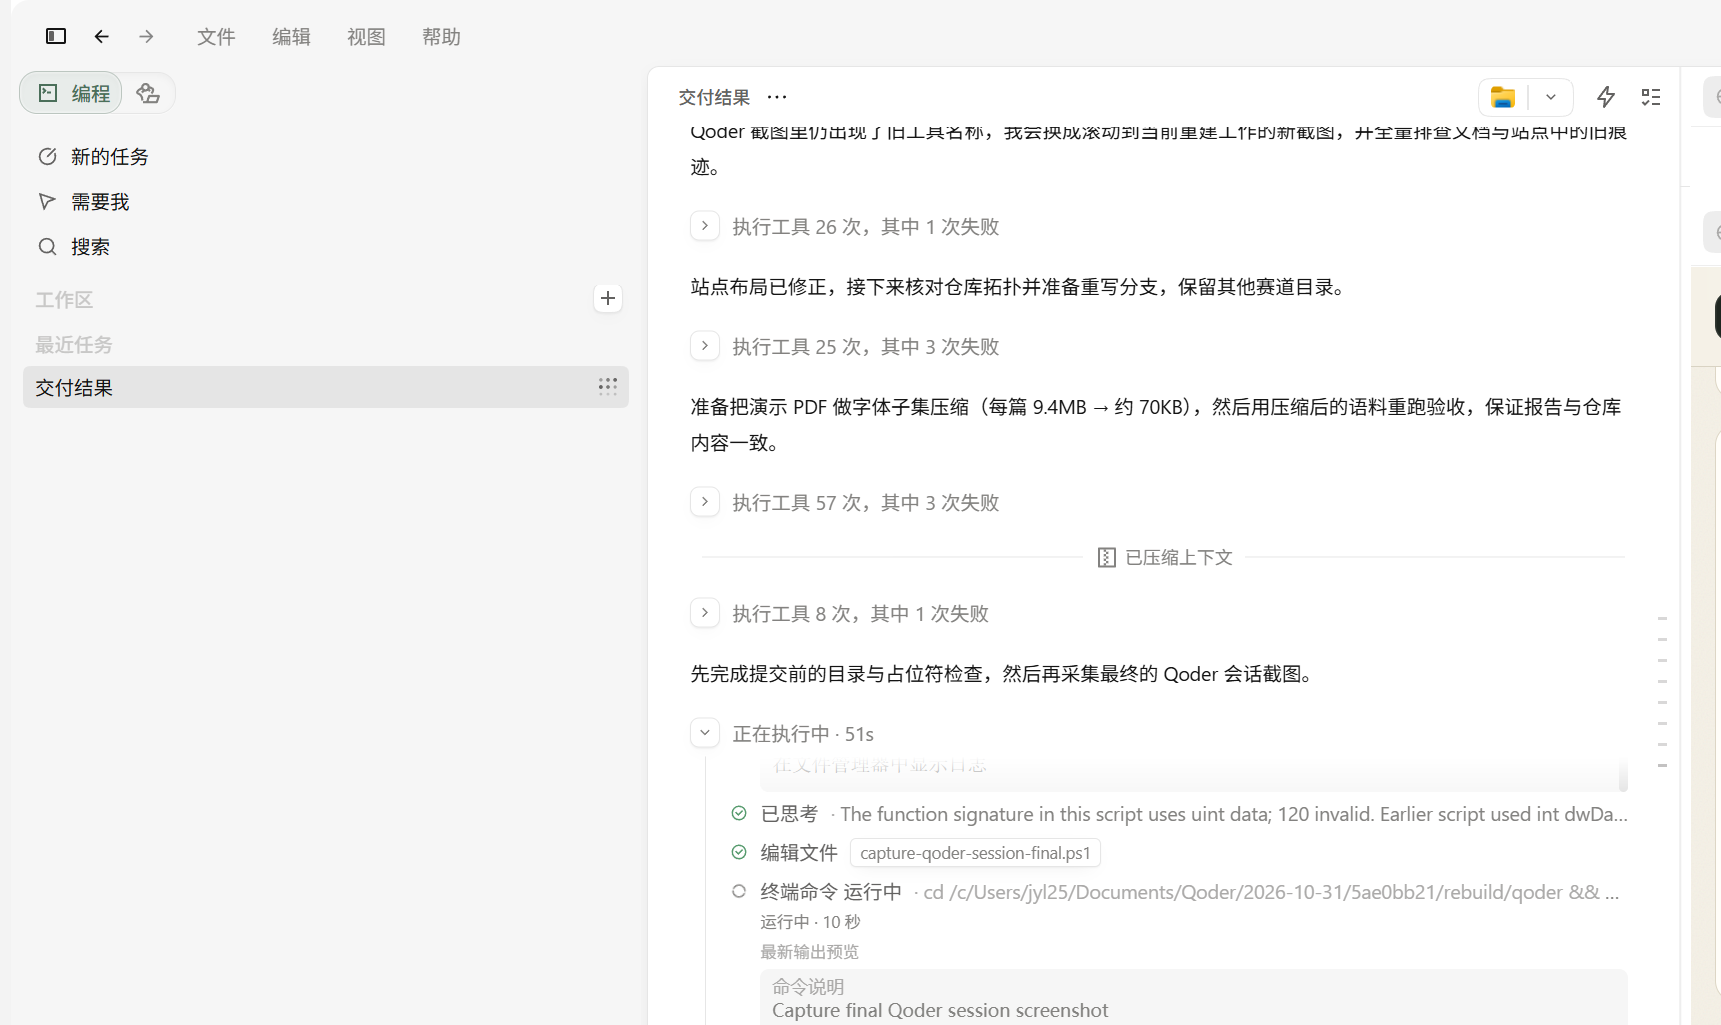
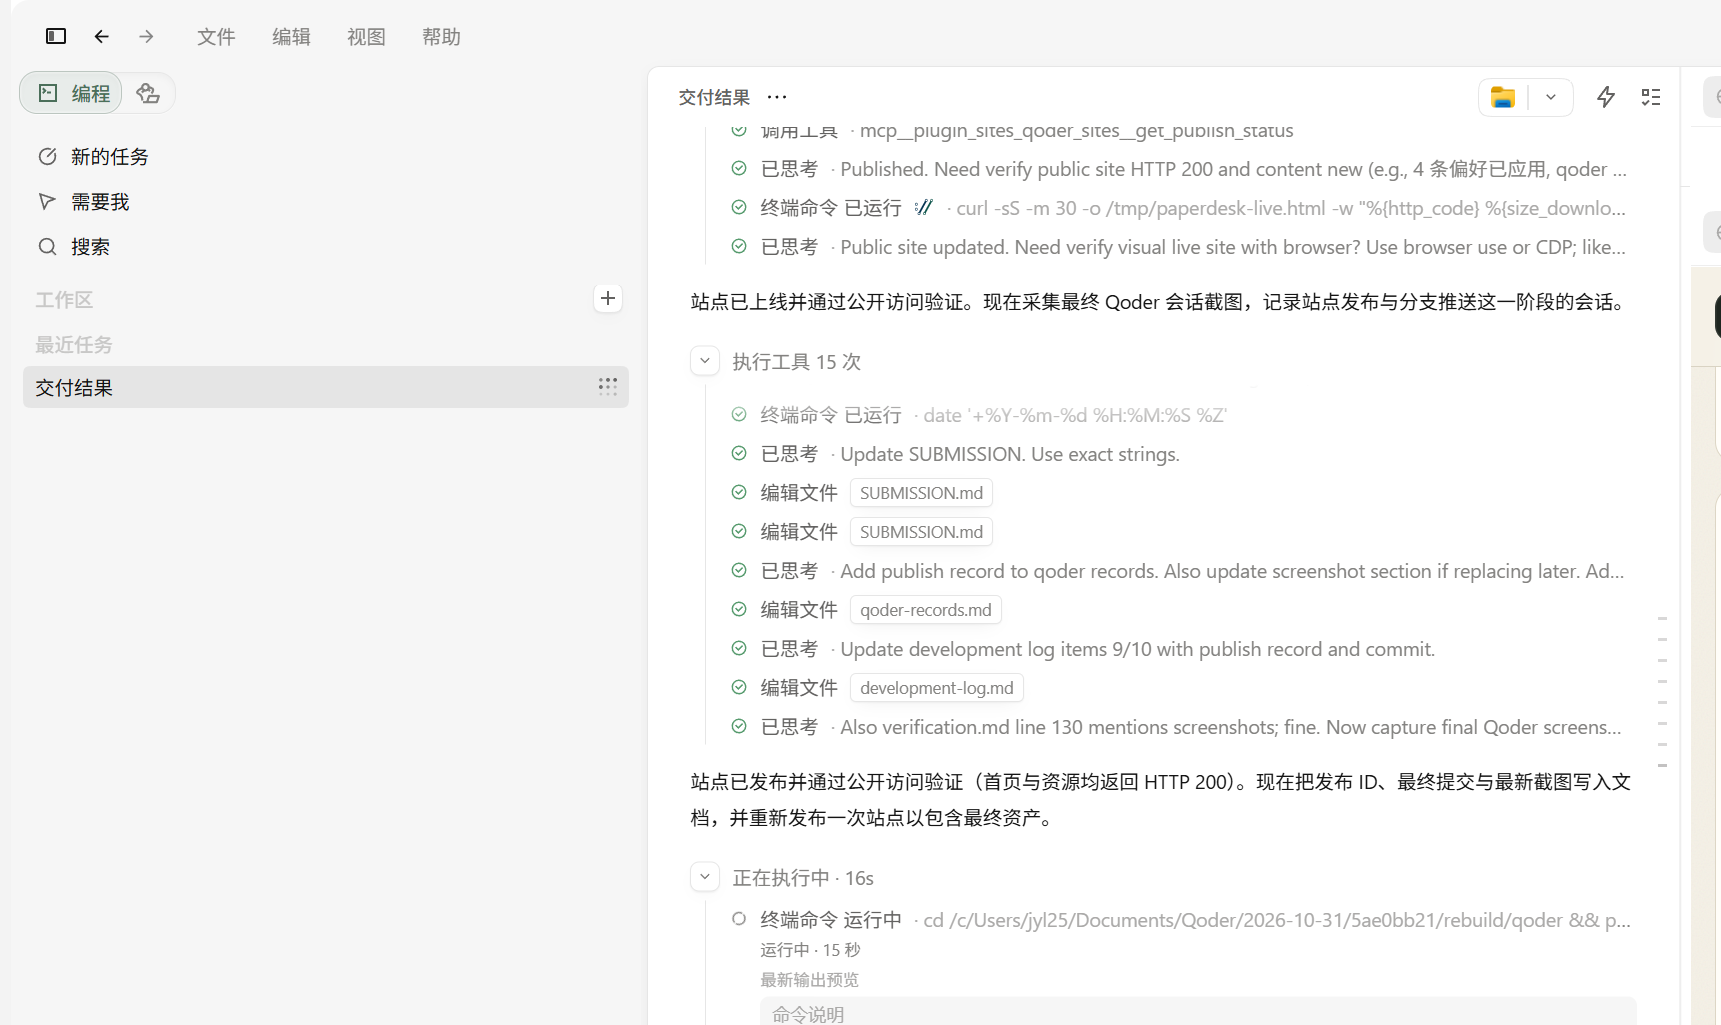
docs(qoder): record Qoder Sites publication and final session evidence

Changed region(s): [[0.4003, 0.1249, 0.9547, 0.718], [0.4003, 0.7493, 0.9547, 0.999]]

diff --git a/qoder/site/web/index.html b/qoder/site/web/index.html
@@ -334,10 +334,10 @@ result = collection.hybrid_search(
             <a class="shot-link" href="assets/qoder-session-final.png" target="_blank" rel="noreferrer">
               <div class="shot-frame">
                 <div class="shot-bar"><span class="dots" aria-hidden="true"><i></i><i></i><i></i></span><span class="shot-url">Qoder · 交付结果</span></div>
-                <img src="assets/qoder-session-final.png" alt="Qoder 桌面端会话截图：显示重建任务、工具调用、终端命令与验收结果" />
+                <img src="assets/qoder-session-final.png" alt="Qoder 桌面端会话截图：显示重建任务、Qoder Sites 发布、工具调用、终端命令与验收结果" />
               </div>
             </a>
-            <figcaption><span class="mono">SESSION</span> Qoder 桌面端真实会话：任务执行、工具调用与终端命令。点击查看原图。</figcaption>
+            <figcaption><span class="mono">SESSION</span> Qoder 桌面端真实会话：任务执行、站点发布、工具调用与终端命令。点击查看原图。</figcaption>
           </figure>
         </div>
       </section>

diff --git a/qoder/docs/qoder-records.md b/qoder/docs/qoder-records.md
@@ -12,14 +12,14 @@
 
 ## 会话截图
 
-下图于 2026-11-01 在 Qoder 桌面端截取，显示本项目的重建任务、工具调用、终端命令与验证过程：
+下图于 2026-11-01 在 Qoder 桌面端截取，显示本项目的重建任务、Qoder Sites 发布、工具调用、终端命令与验证过程：
 
 ![Qoder 会话](assets/qoder-session-final.png)
 
 截图中的关键信息：
 
 - 左侧工作区为“交付结果”，对应本项目；
-- 会话记录包含后端、前端、样例数据、站点与验收的完整重建过程；
+- 会话记录包含后端、前端、样例数据、站点发布、分支推送与验收的完整重建过程；
 - 执行状态显示工具调用次数、终端命令与耗时；
 - 右侧为本次会话的实际任务执行流，不是后期制作的界面图。
 
@@ -48,6 +48,16 @@
 - README、架构、API、验收、开发记录；
 - Qoder Sites 项目网站，使用真实运行截图；
 - 站点通过 Qoder Sites 发布并验证公开访问。
+
+## 发布与提交记录
+
+| 项目 | 值 |
+| --- | --- |
+| 实现提交 | `1131a2714ac648ab57574eacf33197dc51a1236d`（`2026-competition-ecosystem`） |
+| 站点地址 | `https://paperdesk-4qzym26fsnz.qoder.zone` |
+| Qoder Sites 项目 / 站点 | `01a191be-acc7-7d2d-8403-aae09c693514` / `01a191be-accb-777c-927c-adb7a1c58023` |
+| 发布操作 | `01a194f7-3006-7bb3-8612-91bdda581481`（succeeded, committed） |
+| 公开状态 | `public`，HTTP 200 |
 
 ## 如何核验
 

diff --git a/qoder/SUBMISSION.md b/qoder/SUBMISSION.md
@@ -12,7 +12,7 @@
 | 项目网站 | `https://paperdesk-4qzym26fsnz.qoder.zone` |
 | 网站可见性 | 任何人可访问（public） |
 
-最终提交 commit 以分支 HEAD 为准；提交时会在消息中给出完整 hash。
+最终提交 commit 以分支 HEAD 为准；实现提交为 `1131a2714ac648ab57574eacf33197dc51a1236d`，之后仅追加文档与站点记录。
 
 ## 一句话介绍
 
@@ -107,8 +107,12 @@ python scripts/accept.py --base http://127.0.0.1:8080
 | 站点 ID | `01a191be-accb-777c-927c-adb7a1c58023` |
 | 访问地址 | `https://paperdesk-4qzym26fsnz.qoder.zone` |
 | 访问模式 | public |
-
-发布记录与验证结果在最终提交前补充。
+| 发布状态 | `publication_completed`，`published=true`，`lifecycle=active` |
+| prepare action | `1071b22a-c44a-4d9e-a580-cdf785f7b5ae` |
+| artifact 校验操作 | `01a194f7-0744-733f-a366-081cb65f2ce9`（succeeded） |
+| 发布操作 | `01a194f7-3006-7bb3-8612-91bdda581481`（succeeded, committed） |
+| 发布时间 | 2026-11-01 10:36 |
+| 公开验证 | 首页、样式表与最新截图均返回 HTTP 200，页面包含最终发布内容 |
 
 ## 安全与合规
 

diff --git a/qoder/docs/development-log.md b/qoder/docs/development-log.md
@@ -72,12 +72,13 @@
 9. **文档与网站**
    - 编写 README、架构、API、验收、Qoder 记录；
    - 重做 Qoder Sites 项目网站，使用本轮真实运行截图；
-   - 重新发布站点并验证公开访问。
+   - 通过 prepare action `1071b22a-c44a-4d9e-a580-cdf785f7b5ae` 打包，发布操作 `01a194f7-3006-7bb3-8612-91bdda581481` 完成；
+   - 公开地址 `https://paperdesk-4qzym26fsnz.qoder.zone`，首页与静态资源均返回 HTTP 200。
 
 10. **提交**
     - 以仅含 `qoder/.gitkeep` 的上游提交为基线重建分支历史；
     - 保留 gaode / minimax / stepfun 目录，整体替换 `qoder/`；
-    - 强制推送新的 `qoder/` 实现并记录最终 commit。
+    - 实现提交 `1131a2714ac648ab57574eacf33197dc51a1236d` 已推送到 `2026-competition-ecosystem`。
 
 ## 3. 关键问题与处理
 
